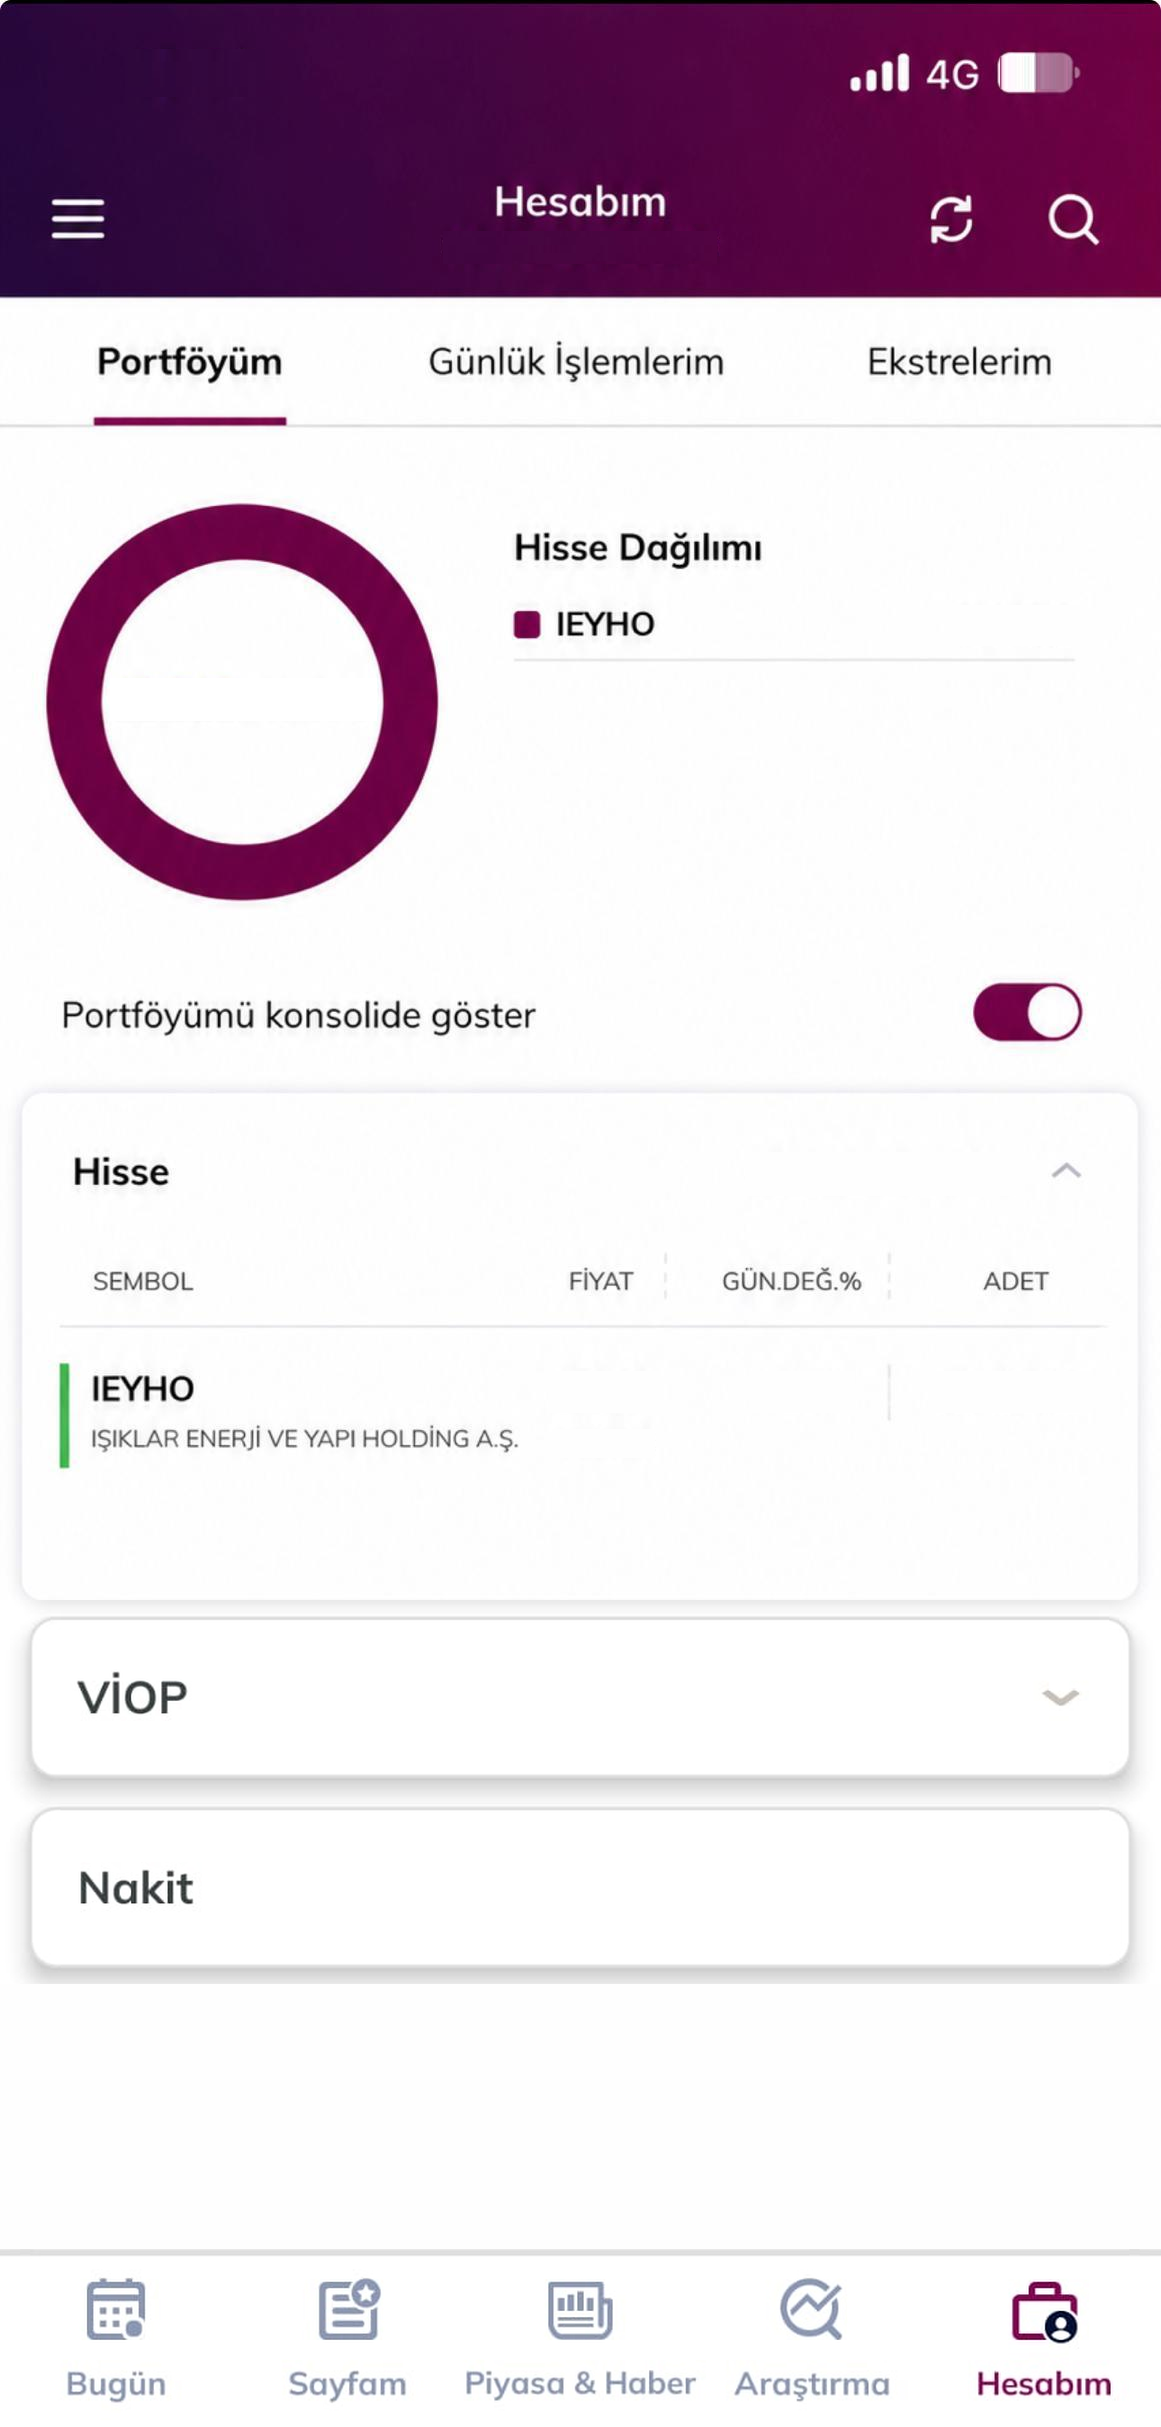
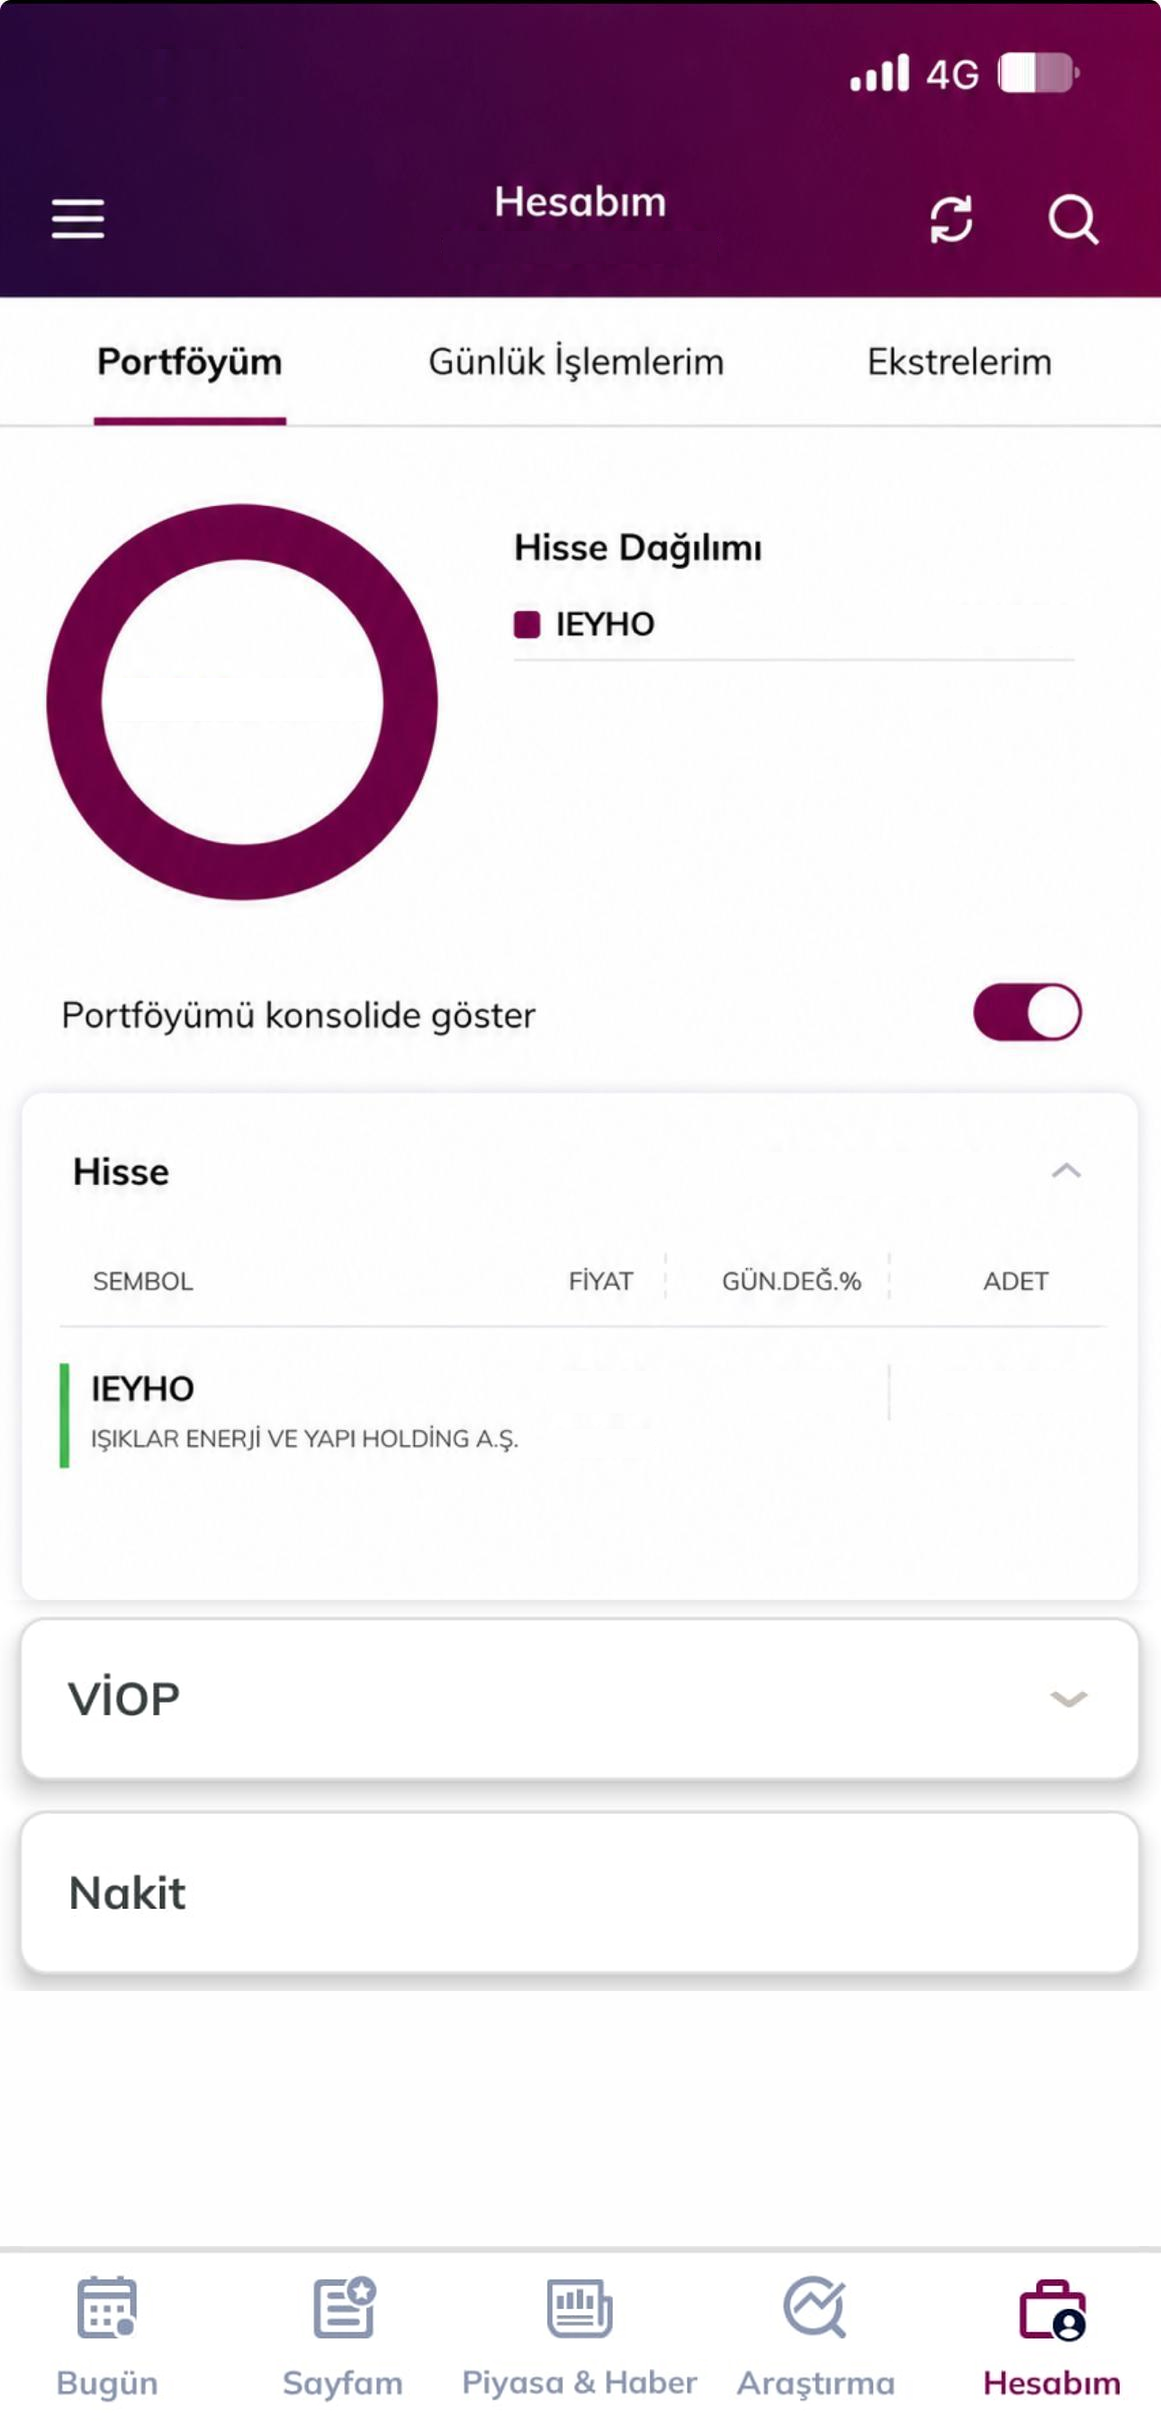
Align page 14's VİOP and Nakit boxes with the Hisse card, and zero them
The two boxes were scaled by the page width, which left their borders inset
about ten pixels from the Hisse card above. Scaled to put their borders on the
card's borders instead — the same factor vertically, so nothing is distorted —
and they now line up to within a pixel.

Nakit reads 0,00 like VİOP rather than a random balance.

diff --git a/maroon-hesabim/screen.js b/maroon-hesabim/screen.js
@@ -1,7 +1,3 @@
-/* Nakit is cash rather than anything the holding implies, so it is drawn fresh
-   on each visit — repeated screenshots never carry an identical balance. */
-var NAKIT = Math.round((125 + Math.random() * (35789 - 125)) * 100) / 100;
-
 window.SCREEN = {
   slug: "maroon-hesabim",
   canvas: [1161, 2427],   // extended to the example's full page
@@ -68,9 +64,9 @@ window.SCREEN = {
       get: function (s, A) { return A.num(s.adet, 2); } },
 
     // the two boxes below the Hisse card
-    { id: "viop", right: 165, top: 1681, h: 38, size: 42, weight: 500, color: "#404444",
+    { id: "viop", right: 158, top: 1682, h: 38, size: 42, weight: 500, color: "#404444",
       get: function (s, A) { return A.num(0, 2) + " ₺"; } },
-    { id: "nakit", right: 165, top: 1871, h: 38, size: 42, weight: 500, color: "#414444",
-      get: function (s, A) { return A.num(NAKIT, 2) + " ₺"; } }
+    { id: "nakit", right: 158, top: 1875, h: 38, size: 42, weight: 500, color: "#414444",
+      get: function (s, A) { return A.num(0, 2) + " ₺"; } }
   ]
 };
